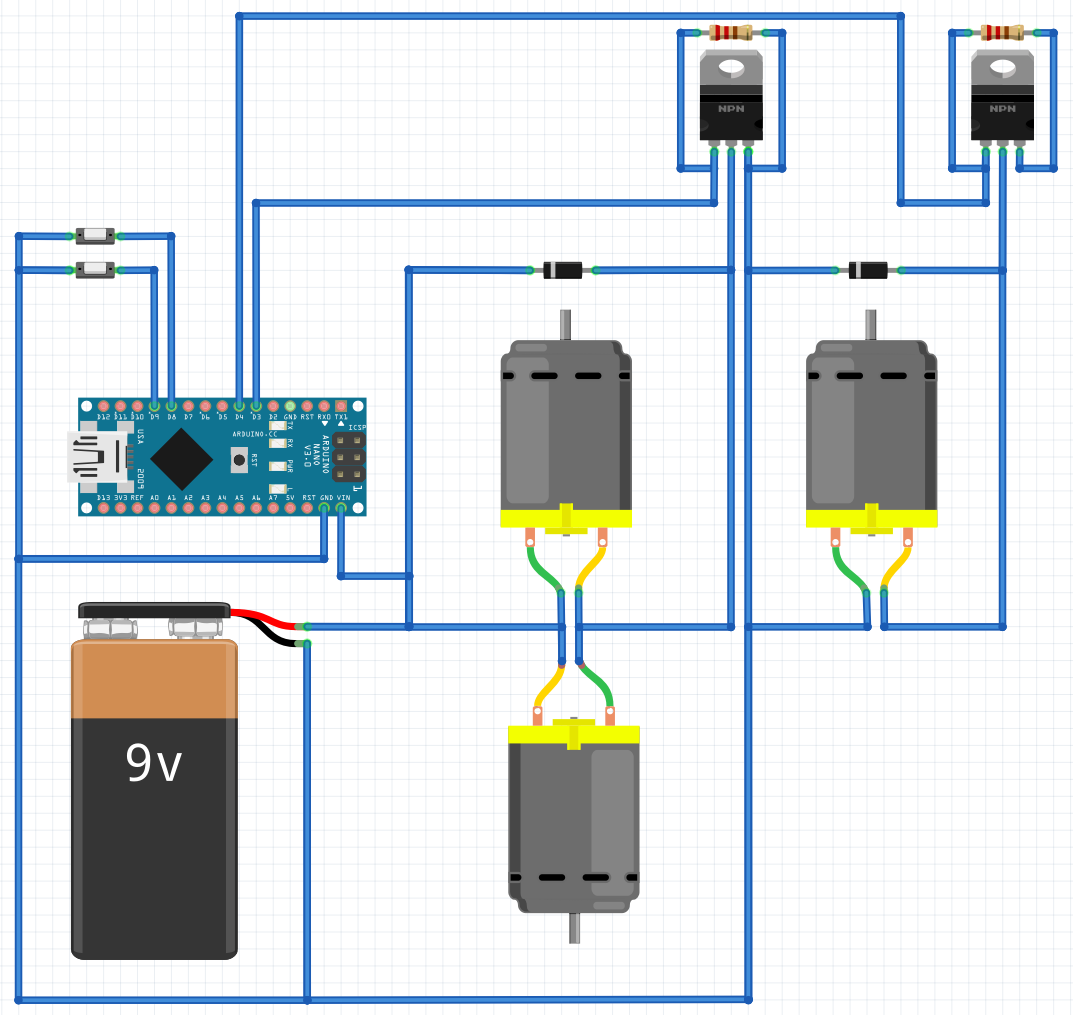
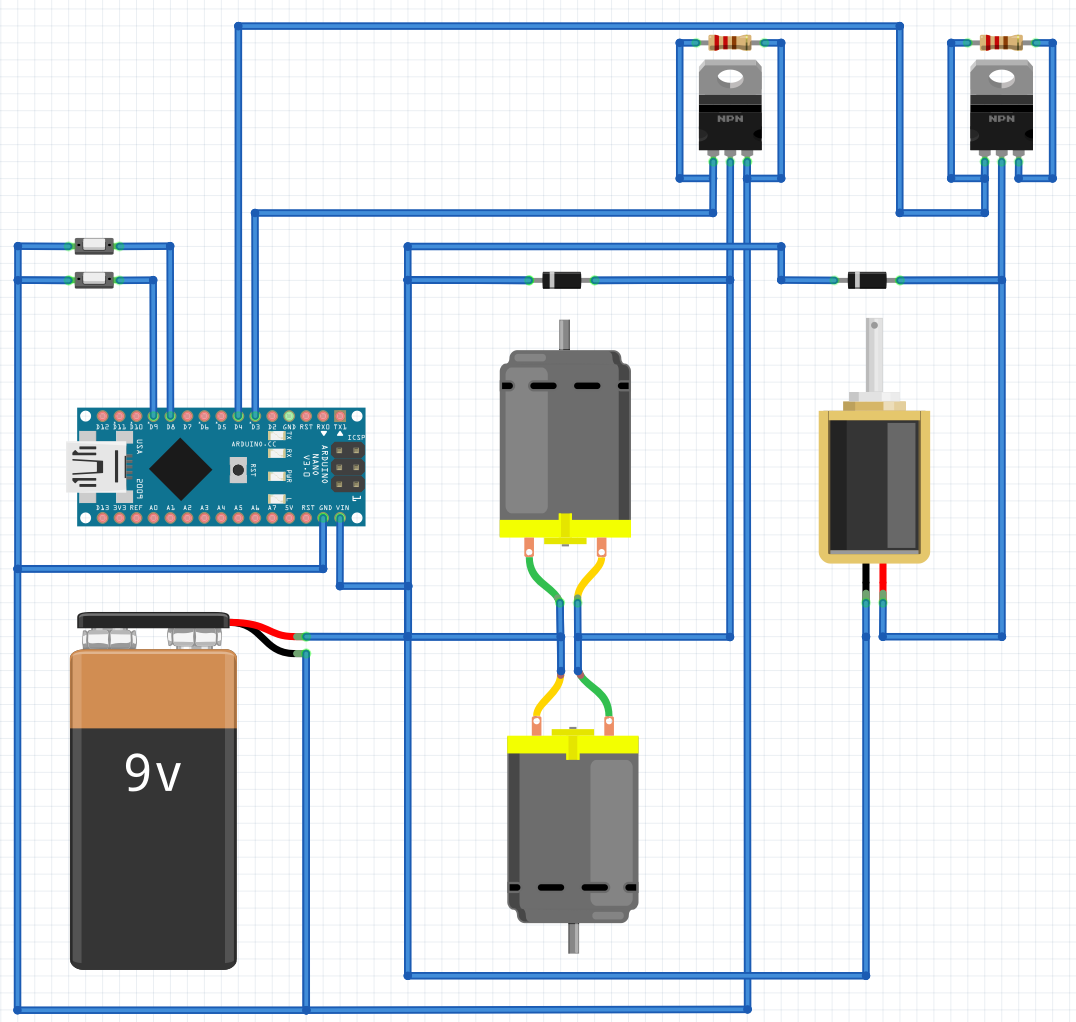
Updates

Changed region(s): [[0.0, 0.0, 1.0, 1.0], [0.0615, 0.9163, 0.0923, 0.9468]]

diff --git a/ArduinoProgramming.md b/ArduinoProgramming.md
@@ -1,41 +1,63 @@
 
 # Programming an arduino properly
 
-Arduinos are constantly looping through its code and operate on a state machine behavioural system. Code examples given previously were simplied for the tutorial
+There are a number of things you need to do to run your arduino more efficiently
 
-A state machine is a behavioural machine that has a finite number of states and a given input into the machine performs a transition and produces an output. A simple way of explaining this is:
+[Return to the start](Arduino.md)
+[The next section covers hardware options when building your blaster](BlasterTypes.md)
 
-![finite state machine](/images/fsm.png)
-
-When you press the button, the flywheel motors start. When you release it, the motors stop.
-
-###So whats the point of this?
-
-You need to organise your code properly.
-
-Arduino code contains 4 main areas:
-
-***Declarations***
-
-Where you declare your pins, variables, constants, etc
-
-***setup()***
-
-Where you place run-once-on-startup commands, such as initial values
-
-***loop()***
-
-Code that is executed every cycle
-
-***user functions*** 
-
-User declared functions
-
-## Polling buttons
+## Better Button Handling
 
 Buttons should be polled once per cycle, to ensure that the inputs are checked on a regular basis rather than read adhoc. This is increasingly more important as your program grows larger. 
 
-Create a function 
+Poll the status of the buttons once per cycle and place it in your loop. 
+
+```
+#define PIN_TRIGGER_FIRE 8
+#define PIN_TRIGGER_REV 9
+
+byte FireButtonState = HIGH;
+byte RevButtonState = HIGH;
+
+
+void loop()
+{
+	FireButtonState = digitalRead(PIN_TRIGGER_FIRE);
+	RevButtonState = digitalRead(PIN_TRIGGER_FIRE);
+}
+
+
+```
+
+Question: What is the issue with this code?
+
+Answer: It doesn't detect fleeting button presses
+
+This can be solved using Interrupts.
+This is out of scope of this tutorial (for the moment)
+
+Button debouncing is also out of scope of this tutorial. 
+
+## Delays to ensure things happen
+
+In the case of a solenoid, it's similar to a binary switch - ON is foward, OFF is retracted. This means you need to time how long its on and off so that you don't:
+1) unnecessarily hold the solenoid ON (uses battery power)
+2) shortstroke the solenoid. Energise or deenergise before it has reached fully extended or fully retracted
+
+`delay(x)`
+where x is the time in milliseconds.
+
+You can do something like this
+
+```		
+digitalWrite(4,HIGH);		// Start pusher
+delay (100);					// energise for 100ms
+digitalWrite(3,LOW);		// Turn OFF pusher
+delay (100);					// denergise for 100ms
+```
+
+
+
 
 ## Full Code
 
@@ -70,11 +92,13 @@ void loop()
 		if (digitalRead(8) == LOW)		// If the rev is pressed, then we can press pusher)
 		{
 			digitalWrite(4,HIGH);		// Start pusher
+			delay (100);					// energise for 100ms
+			digitalWrite(3,LOW);		// Turn OFF pusher
+			delay (100);					// denergise for 100ms
 		}
 	}
 	else					// If REV button is not pressed, stop both
 	{
-		digitalWrite(4,LOW);		// Turn OFF pusher
 		digitalWrite(3,LOW);		// Turn OFF rev
 	}
 
@@ -86,5 +110,5 @@ void loop()
 
 
 ## Programming covered
-
-The next section covers hardware options when building your blaster
+[Return to the start](Arduino.md)
+[The next section covers hardware options when building your blaster](BlasterTypes.md)

diff --git a/Arduino.md b/Arduino.md
@@ -169,7 +169,7 @@ Program code for this is the same as for the LED circuit. All we have done is re
 
 ### Adding a pusher driver and a rev trigger
 
-To add an automatic pusher to the circuit, I've simply duplicated the power transistor circuit and added another motor. Keep in mind that this will get you automatic only. This has been connected to an available digital pin, D4.
+To add an automatic pusher to the circuit, I've simply duplicated the power transistor circuit and added a solenoid. This has been connected to an available digital pin, D4. The solenoid should be powered on to push forward, then turn off to retract.
 
 I have also added another button to D8. This could be used to trigger the pusher circuit.
 
@@ -190,12 +190,15 @@ if (digitalRead(9) == LOW)		// If button has been pressed
 	if (digitalRead(8) == LOW)		// If the rev is pressed, then we can press pusher)
 	{
 		digitalWrite(4,HIGH);		// Start pusher
+		delay (100);					// energise for 100ms
+		digitalWrite(4,LOW);		// Turn OFF pusher
+		delay (100);					// denergise for 100ms
 	}
 }
-else					// If REV button is not pressed, stop both
+else					// If REV button is not pressed, stop 
 {
-	digitalWrite(4,LOW);		// Turn OFF pusher
 	digitalWrite(3,LOW);		// Turn OFF rev
+
 }
 ```
 
